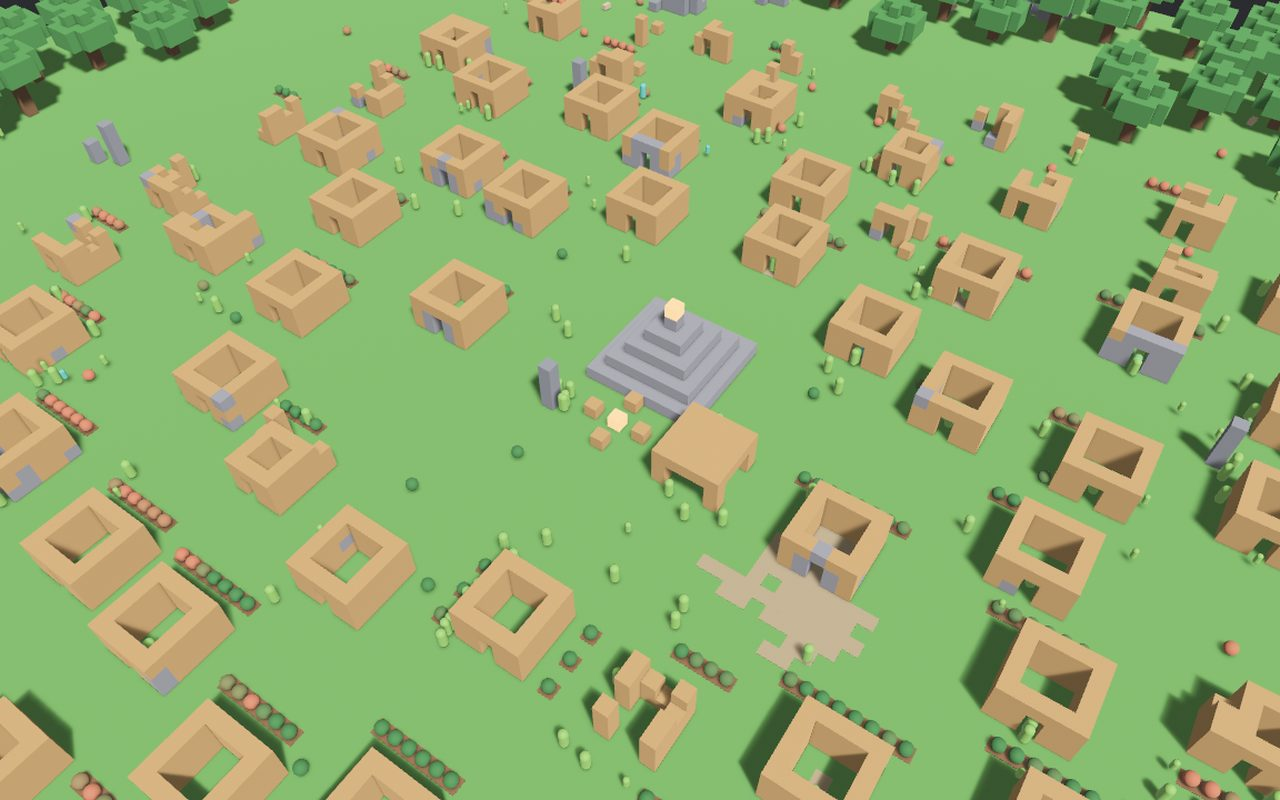
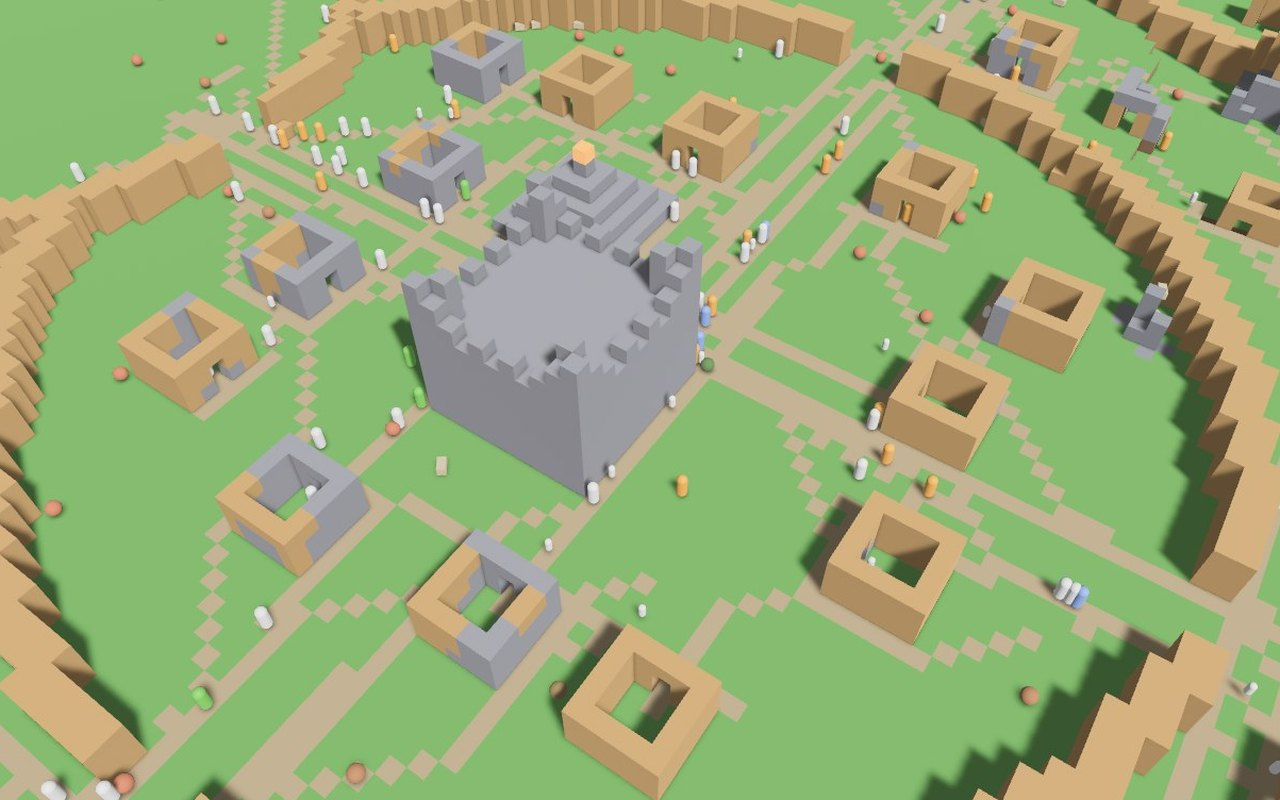
Update the WorldSim card for the current build
New screenshot from the rebuilt demo (the walled town on day 59, panels
hidden), and copy that covers knowledge, the town plan, and snapshots.
19,000 lines of Rust, up from 6,800.

diff --git a/src/projects/data.js b/src/projects/data.js
@@ -160,27 +160,27 @@ const PROJECT_LIST = [
     id: "worldsim",
     short: "WorldSim",
     name: "WorldSim",
-    tagline: "A voxel world of people who are born, pair off, build, and die",
+    tagline: "A voxel village that grows from two people into a walled town",
     url: "https://bconlin.com/demos/worldsim/",
     demo: "demos/worldsim/index.html",
     when: "2026",
     status: "polish",
     scores: { scale: 5, depth: 8, polish: 4 },
-    what: "Agents living in a voxel world. They score their options, pursue the winner, raise children who inherit their genes, and die of hunger, violence, or old age. Chopping and building really change the world.",
+    what: "It starts with two people and a forest. Agents weigh their options, pair off, raise children who inherit their genes, and die. By doing the work they discover fire, farming, masonry, and walls, and they teach each other what they know. The village lays out its town once, then grows it ring by ring, and quarrying, roads, and building really change the world.",
     why: null,
     how: [
-      "Each agent weighs its needs with a utility function, then carries out the winning goal as a behavior tree.",
-      "Genes pass from parents to children, so traits drift over generations.",
-      "The simulation runs on a fixed tick, so it behaves the same at 1× and 100× speed.",
+      "Each agent scores every action from 0 to 1 against its needs, then runs the winner as a reactive behavior tree.",
+      "Knowledge spreads through talk, play, and teaching, and is lost when the last person who knows it dies.",
+      "A fixed tick gives the same results at 1× and 100×, and whole worlds save and load as snapshots.",
     ],
     stats: [
-      ["6,800", "lines of Rust"],
+      ["19,000", "lines of Rust"],
+      ["163", "people by day 59"],
       ["1×–100×", "same results"],
-      ["1", "mutable world"],
     ],
     skills: { rust: [], agents: [0], sim: [1, 2] },
     tools: ["Rust", "Bevy"],
-    shot: { src: "projects/worldsim.jpg", alt: "A voxel village of clay houses and a stone monument, seen from above" },
+    shot: { src: "projects/worldsim.jpg", alt: "A walled voxel town from above: a stone keep in the middle, clay and stone houses, worn roads, and rings of wall" },
   },
   {
     id: "everything",
